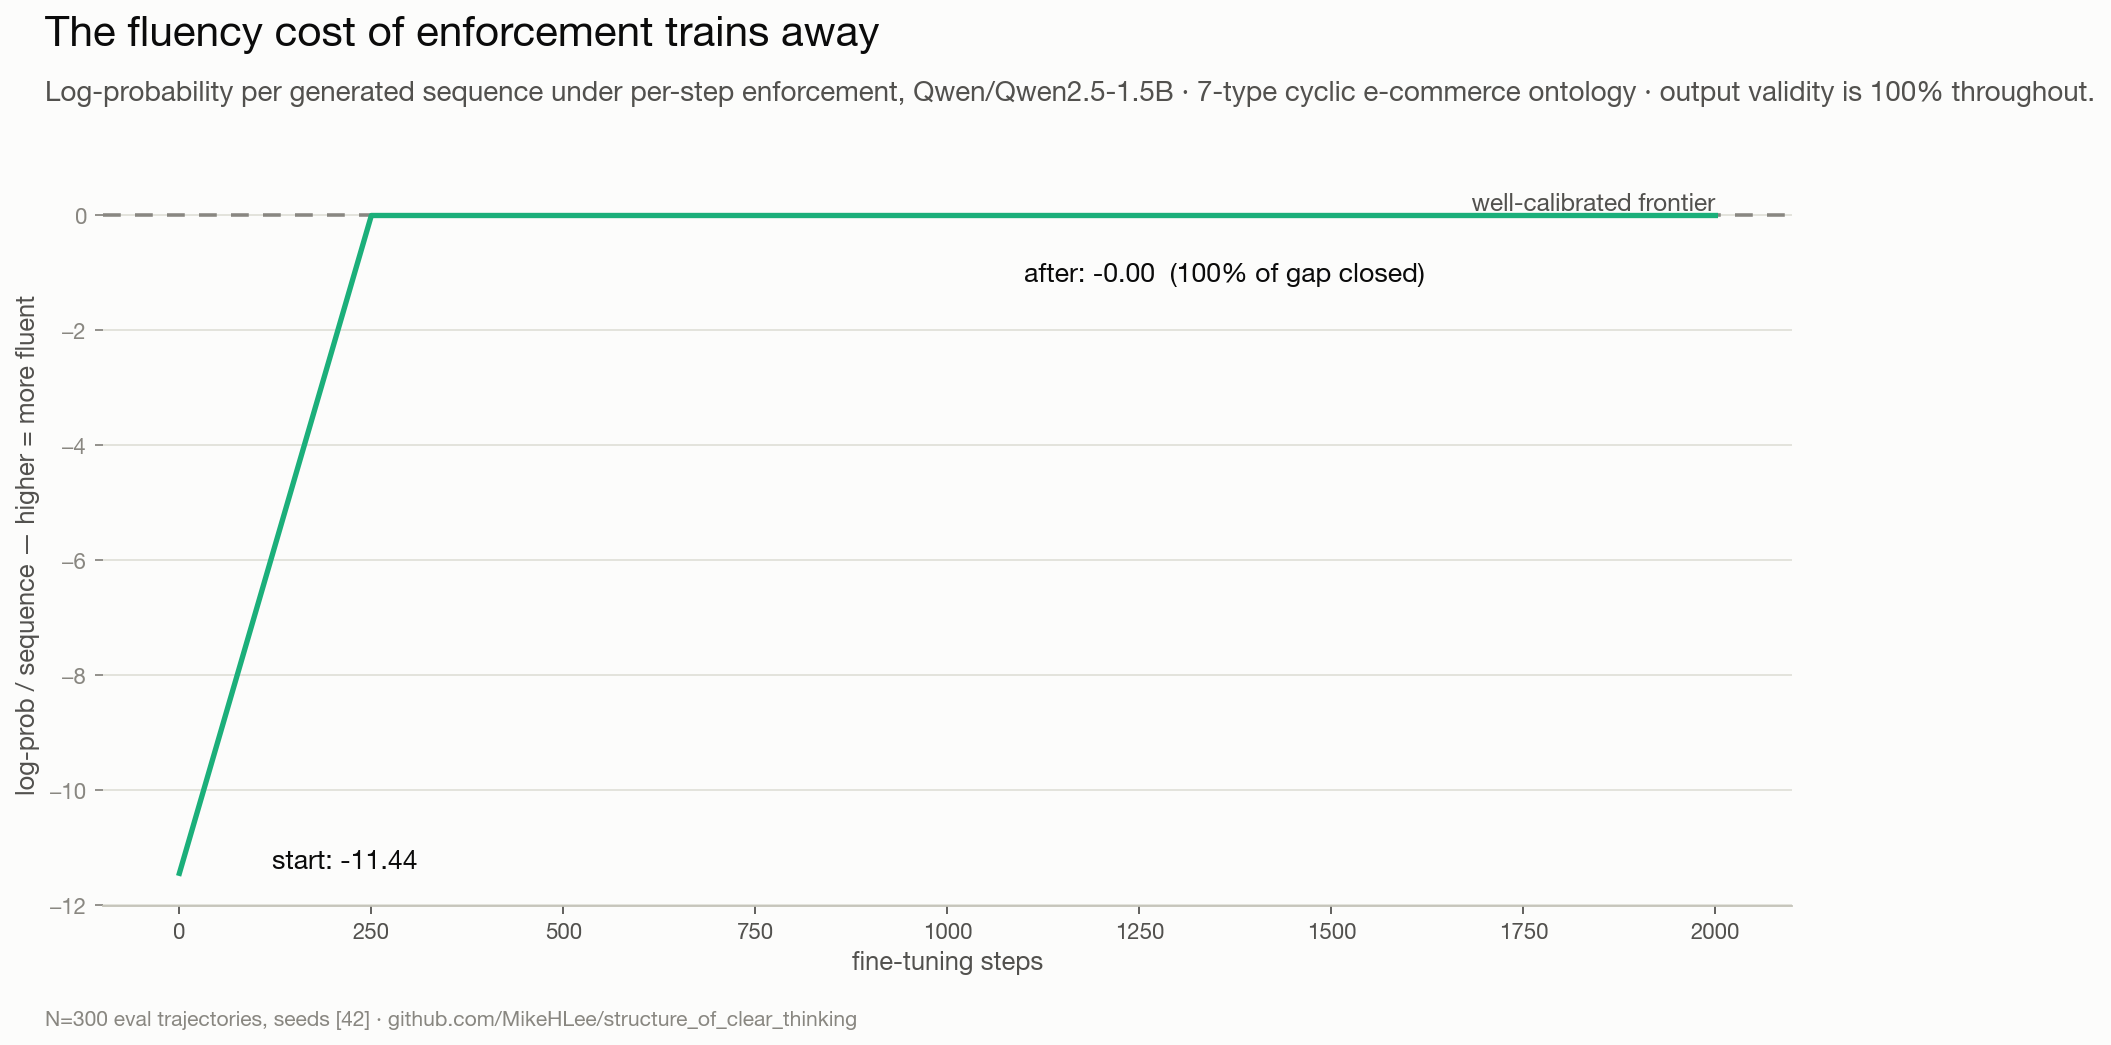
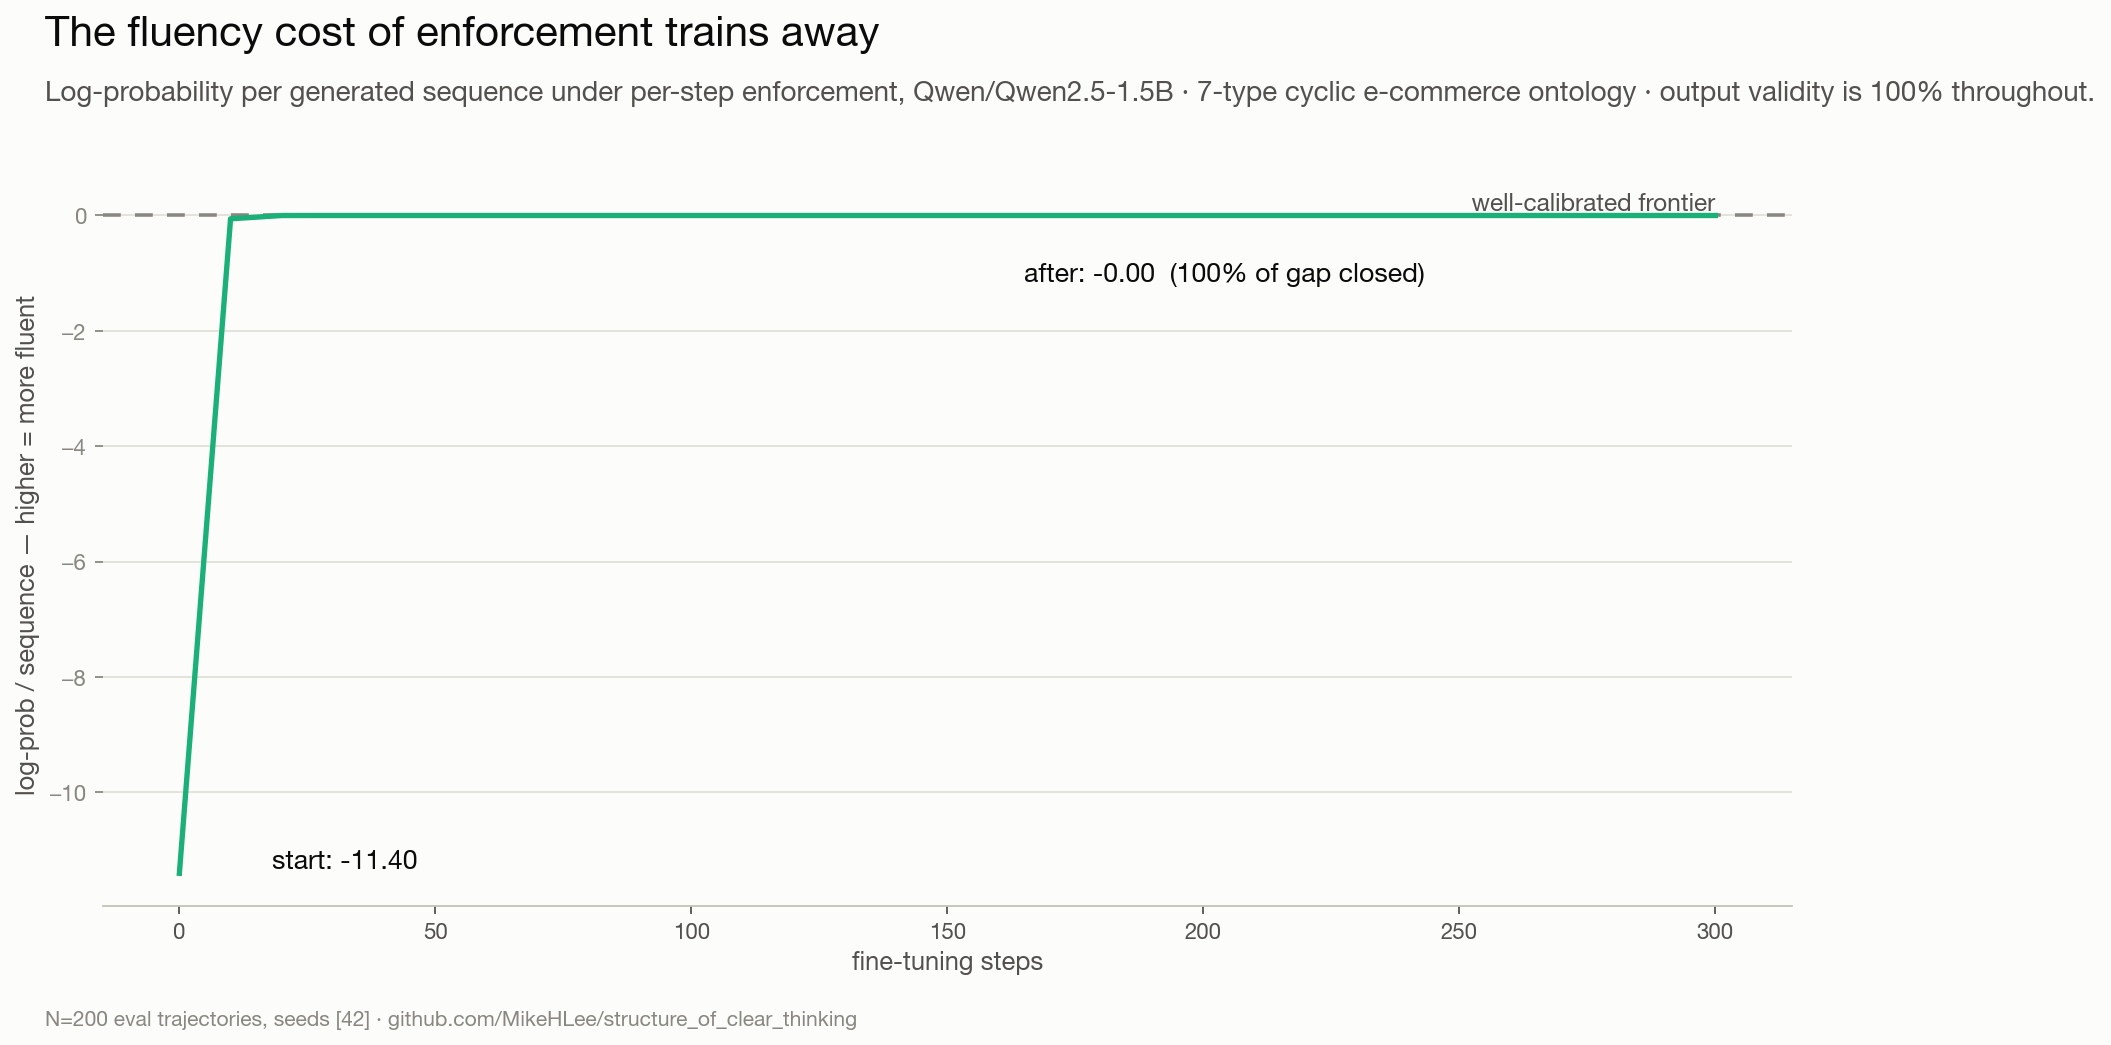
Thread 03: dense-checkpoint results (converged by step 10) + updated figures/copy
Dense re-run (eval every 10 steps, wall 31m, ~$0.40): KL 0.95 -> 0.005
at step 10, ~0 thereafter — the cliff IS the finding at any resolution;
figure now annotates '~0 by step 10 (80 training examples)'. Copy,
alt text, and provenance updated; posting-note recommendation resolved.

diff --git a/threads/03_teaching_the_rulebook/generate_figures.py b/threads/03_teaching_the_rulebook/generate_figures.py
@@ -111,6 +111,14 @@ def fig1_disagreement(res, ph):
     ax.annotate(f"after training: {s1:.2f}", xy=(res["steps"][-1], s1),
                 xytext=(res["steps"][-1] * 0.68, s1 + (s0 - s1) * 0.12),
                 fontsize=12, fontweight="bold", color=INK)
+    conv = next((s for s, k in zip(res["steps"][1:], res["kl_per_step"][1:])
+                 if k < 0.05), None)
+    if conv is not None and conv <= res["steps"][-1] * 0.2:
+        ax.annotate(f"≈0 by step {conv}\n({conv * 8} training examples)",
+                    xy=(conv, res["kl_per_step"][res["steps"].index(conv)]),
+                    xytext=(res["steps"][-1] * 0.12, s0 * 0.45),
+                    fontsize=12, fontweight="bold", color=ORANGE,
+                    arrowprops=dict(arrowstyle="->", color=ORANGE, lw=1.6))
     headline(fig,
              "Training on rule-checked outputs teaches the model the rules",
              f"Model–rulebook disagreement (KL per generation step) while fine-tuning {res['model_name']} on its own enforced outputs · {res['domain']}.")

diff --git a/threads/03_teaching_the_rulebook/thread.md b/threads/03_teaching_the_rulebook/thread.md
@@ -1,10 +1,8 @@
 # Thread 03 — "Teaching the model the rulebook"
 
-**Status**: DRAFT — numbers filled 2026-07-28 from the completed L4 run
-(`results/constraint_ft_results.json`, Qwen2.5-1.5B + LoRA, Modal).
-Figures regenerated from the real results file (no placeholders).
-**Depends on**: nothing — run complete. A dense-checkpoint re-run (~$1.30,
-see posting notes) would improve figs 1–2 before posting.
+**Status**: DRAFT — ready to post. Numbers from the dense-checkpoint L4
+re-run 2026-07-31 (`results/constraint_ft_results_dense.json`,
+Qwen2.5-1.5B + LoRA, eval every 10 steps). Figures regenerated from it.
 **Pairs with blog post**: `blog/06_teaching_the_rulebook.md`
 
 Each post is ≤280 characters. Attach the figure named under the post; alt
@@ -55,12 +53,12 @@ We fine-tuned Qwen2.5-1.5B (LoRA) this way on a 7-type shop ontology.
 Disagreement with the rulebook — how hard enforcement must reshape the
 model's choices, measured as KL per step — fell 0.95 → 0.00.
 
-And it didn't take long: converged before the first checkpoint at step 250.
+And it didn't take long: ≈0 by step 10. That's about 80 training examples.
 
 > **Alt text**: Line chart titled "Training on rule-checked outputs teaches
 > the model the rules." Model–rulebook disagreement (KL per generation step)
-> for Qwen2.5-1.5B falls from 0.95 at step 0 to 0.00 by the first checkpoint
-> at step 250, and stays at zero through step 2000.
+> for Qwen2.5-1.5B falls from 0.95 at step 0 to ≈0 by step 10 (annotated:
+> about 80 training examples), and stays at zero through step 300.
 
 ## Post 5 — the fluency cost vanishes  📎 fig2_fluency_recovers.png
 
@@ -72,8 +70,8 @@ enforcer just ran out of things to correct.
 
 > **Alt text**: Line chart titled "The fluency cost of enforcement trains
 > away." Log-probability per enforced sequence rises from −11.4 before
-> training to 0.0 by step 250, meeting the dashed "well-calibrated frontier"
-> reference line, and stays there through step 2000.
+> training to 0.0 by step 10, meeting the dashed "well-calibrated frontier"
+> reference line, and stays there through step 300.
 
 ## Post 6 — what "learned the rules" means here
 
@@ -128,17 +126,17 @@ Paper: [ARXIV LINK TBD]
 
 ## Numbers provenance (filled 2026-07-28)
 
-All from `results/constraint_ft_results.json` (L4 run, wall time 3h53m):
-KL/step 0.954 → 0.000 · logP −11.444 → −0.000 (frontier 0.000) ·
-enforcer-off soundness 0.0% → 100.0% · seed 42 · 2000 LoRA steps
-(converged ≤250) · eval N=100/checkpoint, soundness N=300.
+All from `results/constraint_ft_results_dense.json` (dense L4 re-run,
+wall 31m): KL/step 0.950 → 0.000 · logP −11.40 → −0.00 (frontier 0.00) ·
+enforcer-off soundness 0.0% → 100.0% · seed 42 · 300 LoRA steps, eval
+every 10 (≈0 by step 10) · soundness N=200. The original 2000-step run
+(`constraint_ft_results.json`) agrees at its coarser checkpoints.
 
 ## Posting notes
 
-- **Recommended before posting**: a dense-checkpoint re-run (eval every 10
-  steps for the first 150, smaller eval N) so figs 1–2 show the actual
-  learning curve instead of a cliff between two checkpoints. ~$1.30 on L4.
-  The current figures are honest but coarse.
+- Dense-checkpoint re-run DONE (2026-07-31): even at 10-step resolution
+  the drop is a cliff — convergence within ~10 steps / 80 examples. The
+  figure annotates this; Post 6 uses it as saturation evidence.
 - Post 6 is the determinism/mode-collapse disclosure — do not soften it; it
   pre-empts the sharpest technical objection to the fluency claim.
 - Post after threads 01 and 02; add both links.
